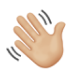
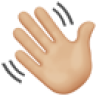
fixed spacing

diff --git a/src/components/layout.scss b/src/components/layout.scss
@@ -370,8 +370,8 @@ $widescreen: 71.25rem; // 1140px
         }
       }
       img{
-        height: 44px;
-        margin-top: -6px;
+        height: 46px;
+        margin-top: -3px;
         margin-right: 2px;
         vertical-align: middle;
         @media (max-width: $mobile-landscape){
@@ -384,7 +384,8 @@ $widescreen: 71.25rem; // 1140px
   &.designletter{
     background: #0D38CE;
     img{
-      height: 20px!important;
+      height: 23px!important;
+      margin-top: 3px;
       vertical-align: middle;
     }
     a{

diff --git a/gatsby-config.js b/gatsby-config.js
@@ -2,7 +2,7 @@ module.exports = {
   siteMetadata: {
     title: `Aakarshna`,
     author: `Aakarshna`,
-    description: `Aakarshna is an illustrator from New Delhi and this is her collection of happy bright illustrations made using simple geometrical shapes.`,
+    description: `Full stack product and UX enthusiast`,
     siteUrl: `https://www.aakarshna.co/`,
     social: {
       twitter: `_aakarshna`,
